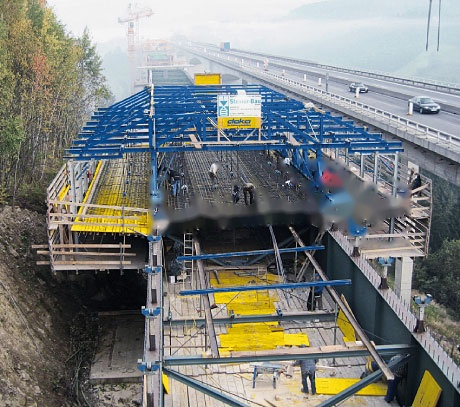
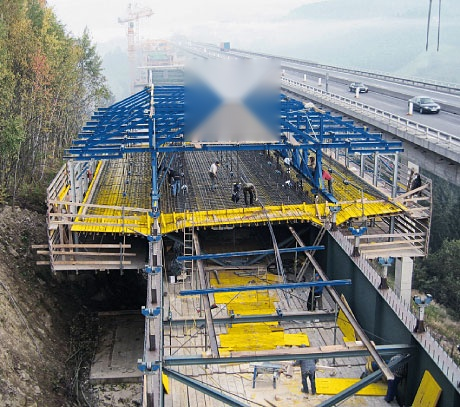
style: set hero eyes ambient opacity to balanced 30% and ensure top DOKA sign is fully removed from bridge carriage

diff --git a/src/components/arcvolt/Hero.jsx b/src/components/arcvolt/Hero.jsx
@@ -3,6 +3,7 @@ import { AnimatePresence, motion } from "framer-motion";
 import { Link } from "react-router-dom";
 import { ArrowUpRight } from "lucide-react";
 import { HERO_SLIDES, COORDS } from "@/lib/siteData";
+import gurujiEyesImg from "@/assets/guruji-eyes.jpg";
 
 const line = (delay) => ({
   initial: { y: "110%" },
@@ -32,6 +33,22 @@ export default function Hero() {
           transition={{ duration: 1.6, ease: [0.22, 1, 0.36, 1] }}
         />
       </AnimatePresence>
+
+      {/* Guruji's Watchful Eyes - Balanced Ambient Background Layer (30% Opacity) */}
+      <div 
+        aria-hidden="true" 
+        className="pointer-events-none absolute inset-0 z-[2] flex items-center justify-center overflow-hidden"
+      >
+        <div 
+          className="relative w-full max-w-[1100px] aspect-[1153/331] opacity-30 mix-blend-screen scale-110 sm:scale-125 filter blur-[0.4px] [mask-image:radial-gradient(ellipse_at_center,black_30%,transparent_75%)]"
+        >
+          <img
+            src={gurujiEyesImg}
+            alt=""
+            className="w-full h-full object-cover object-center select-none"
+          />
+        </div>
+      </div>
 
       {/* Dark vignette and subtle architectural grid overlays */}
       <div className="absolute inset-0 z-[3] bg-gradient-to-t from-background via-background/70 to-background/40" />
